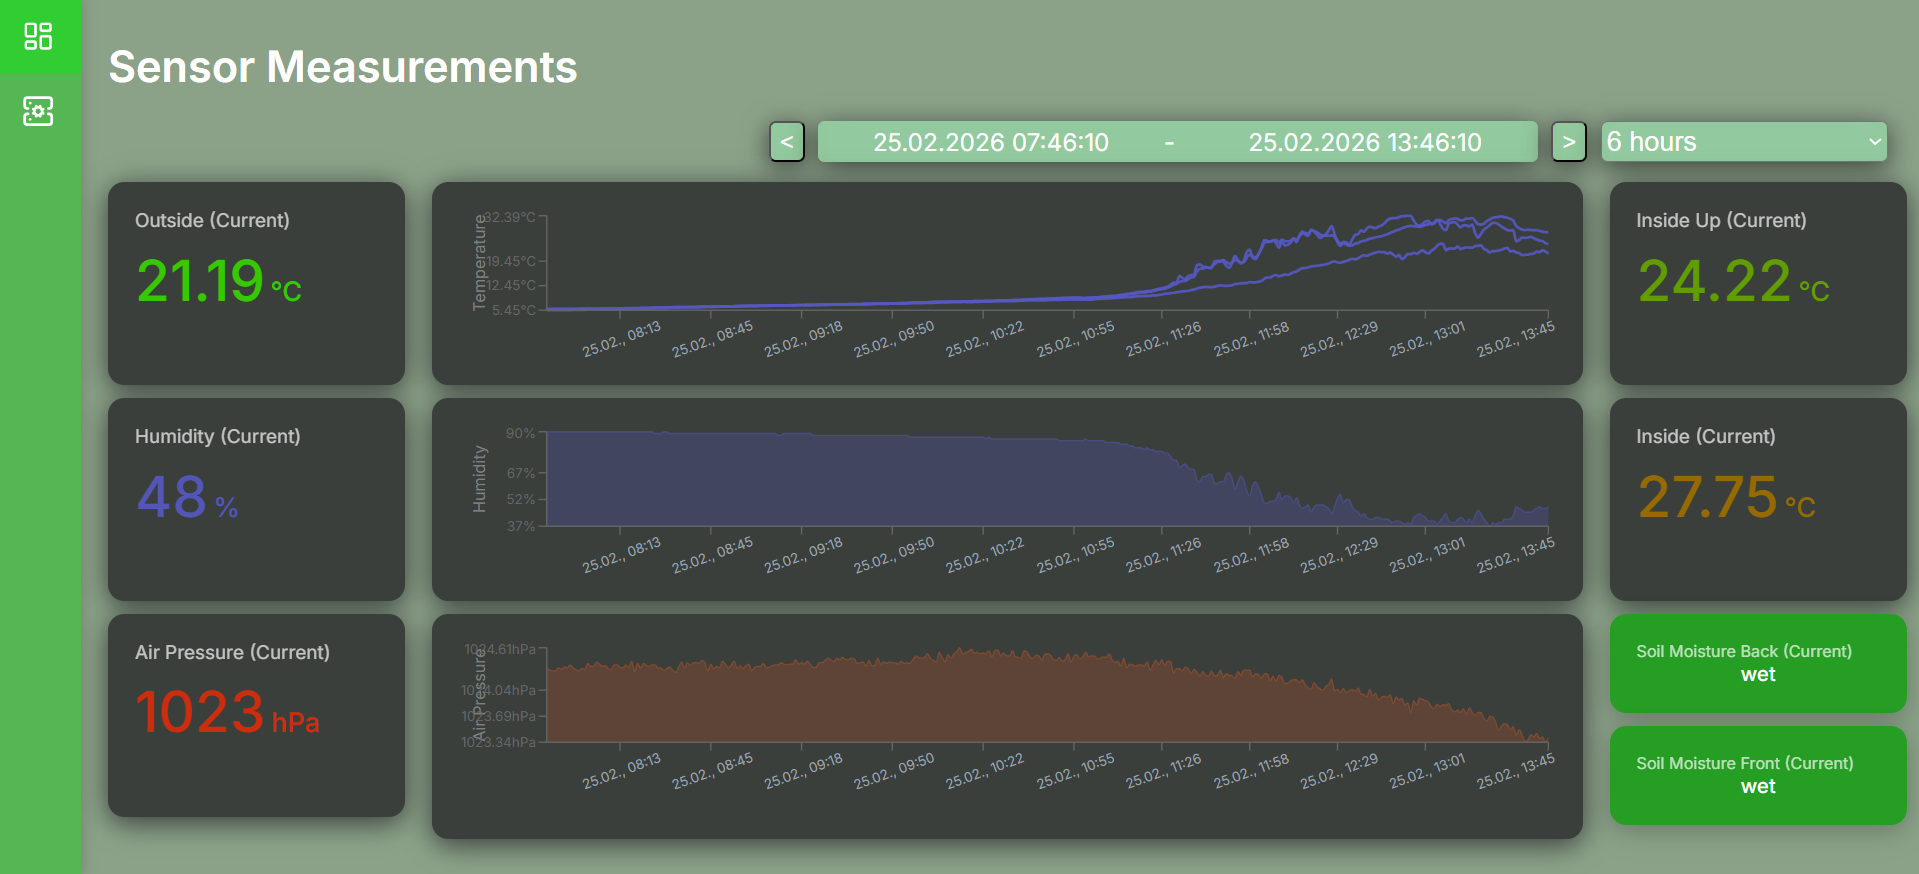
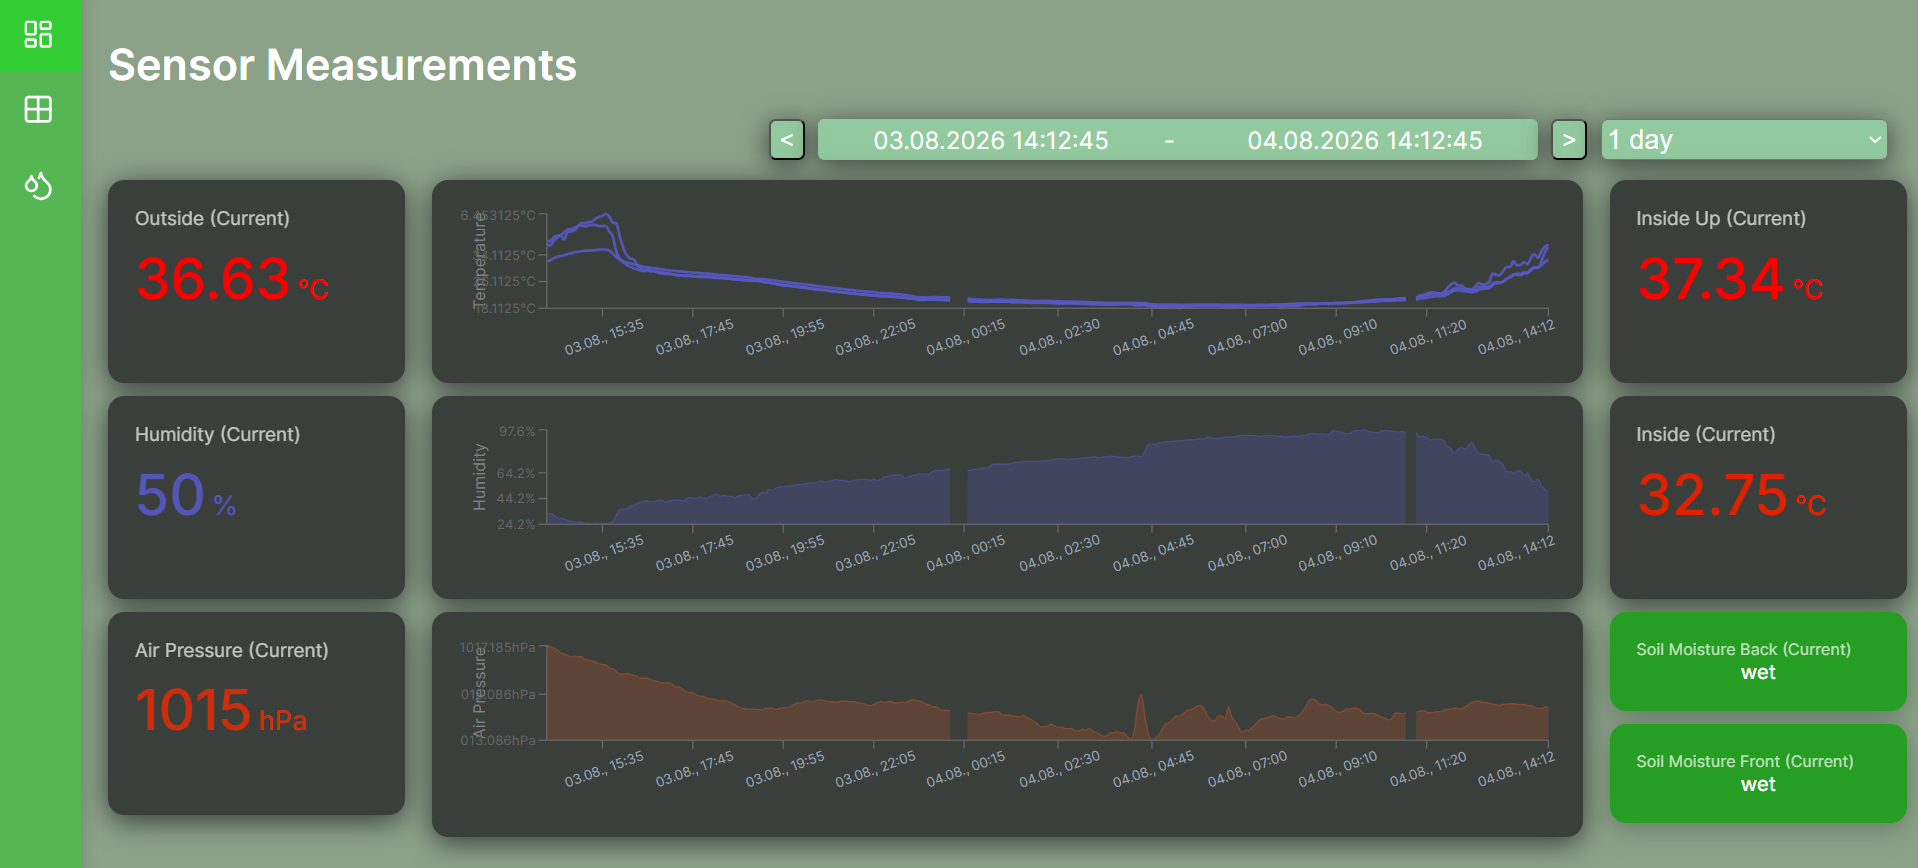
patch: Readme Updates for Watering System (#69)
* Readme Updates for Watering System

* Finished including watering system in readme

diff --git a/README.md b/README.md
@@ -1,23 +1,25 @@
 # 🧠🌱 Raspberry Pi Greenhouse Automations
 
 This project implements a fully automated Raspberry Pi–powered greenhouse control system.
-It collects environmental sensor data (temperature, humidity, pressure, and soil moisture), stores and visualizes telemetry, and automatically controls ventilation using linear actuators — all accessible via a custom web dashboard and API.
+It collects environmental sensor data (temperature, humidity, air pressure, and soil moisture), stores and visualizes telemetry, automatically controls ventilation using linear actuators and irrigation with peristaltic pump — all accessible via a custom web dashboard and API.
 
 All sensor readings are periodically collected, logged, displayed inside a little self-made box for the raspi as well as stored inside an InfluxDB cloud instance. This allows both real time and historical data analysis on the measurements inside the frontend:
 
-### Monitoring Dashboard
-![Frontend dashboard (this one from winter time...)](images/frontend_dashboard.png?raw=true "Sensor Monitoring")
+### Monitoring Dashboards
+![Frontend dashboard](images/frontend_dashboard.png?raw=true "Sensor Monitoring")
 
 ![InfluxDB dashboard](images/influxdb_dashboard.png?raw=true "Influx Monitoring")
 
-The window events (opening/closing) are monitor- and controllable in the "Control Center" section in the frontend. I'm also collecting the timestamps of the window calls to reproduce the last openings times. The window calls are done either manually via the dashboard or the program operator service which is responsible for automatically open/close events based on pre defined thresholds for the inside temperature.
+### Control Centers
+The window events (opening/closing) are monitor- and controllable in the "Window Control Center" section in the frontend. I'm also collecting the timestamps of the window calls to reproduce the last openings times. The window calls are done either manually via the dashboard or the program operator service which is responsible for automatically open/close events based on pre defined thresholds for the inside temperature.
+![Window Control Center dashboard](images/frontend_window_control_center.png?raw=true "Window Control Center")
 
-### Control Center
-![Control Center dashboard](images/frontend_control_center.png?raw=true "Control Center")
+Similar to the Window Control Center, the Watering Control Center provides an overview about the active peristaltic pump times that controls an automated irrigation system in the greenhouse. Calling this endpoint from the frontend as well as more insights about historic watering/window events is in progress.
+![Watering Control Center dashboard](images/frontend_watering_control_center.png?raw=true "Watering Control Center")
 
-In addition, a fastapi instance is implemented to fetch the sensor readings in a specific timeframe from the InfluxDB as well as opening and closing of the windows.
 
 ### API Interface
+In addition, a fastapi instance is implemented to fetch the sensor readings in a specific timeframe from the InfluxDB, opening and closing of the windows and starting watering processes.
 ![fastapi interface](images/api.png?raw=true "API")
 
 The idea is to build a fully automated system to minimize manual work by automation of ventilation and watering in the greenhouse as well as implementing a full-on web application from scratch to monitor and control every sensor remotely.
@@ -64,6 +66,8 @@ INFLUXDB_TOKEN=<YOUR_TOKEN>
 
 SQLITE_DB_NAME=<LOCAL_SQLITE_DB_PATH>
 SQLITE_ACTUATOR_EVENTS_TABLE=window_status
+SQLITE_WATERING_EVENTS_TABLE=watering
+SQLITE_WINDOW_ENTITY_TABLE=window
 
 WINDOW_ACTUATOR_LEFT_EXTEND_PIN=<GPIO_PIN_LEFT_EXTEND>
 WINDOW_ACTUATOR_LEFT_RETRACT_PIN=<GPIO_PIN_LEFT_RETRACT>
@@ -71,30 +75,34 @@ WINDOW_ACTUATOR_RIGHT_EXTEND_PIN=<GPIO_PIN_RIGHT_EXTEND>
 WINDOW_ACTUATOR_RIGHT_RETRACT_PIN=<GPIO_PIN_RIGHT_RETRACT>
 WINDOW_MOVING_TIME=<HOW_LONG_ACTUATOR_TAKES>
 
+WATERING_PUMP_PIN=<GPIO_PIN_PUMP>
+WATERING_TIME_SECONDS=<WATERING_DURATION>
+
 CPU_TEMP_PATH=/sys/class/thermal/thermal_zone0/temp
 
 FRONTEND_URL=<YOUR_LOCAL_FRONTEND_URL>
 VITE_API_BASE_URL=<BASE_API_FOR_FRONTEND>
 ```
 
+Additional environment variables are in the settings of each service, I'm using the default values of those that are not listed here.
+
 The docker-compose will load these environment variables while building the image. To start it, navigate to the repo root and run ```docker compose up -d --build```. Docker will create 6 images and start their corresponding containers:
 
-- ```gewaechshaus-program-operator```: The cron worker that fetches the temperature from inside the greenhouse in a given interval (15 minutes) and operates on windows if certain thresholds are crossed. Source code in ```src/services/program_operator```.
-- ```gewaechshaus-api```: The uvicorn fastapi instance with endpoints to fetch data and call windows. Source code in ```src/services/api```.
+- ```gewaechshaus-program-operator```: The cron worker that fetches the temperature from inside the greenhouse in a given interval (15 minutes) and operates on windows if certain thresholds are crossed. Another cron job is responsible to call watering every morning and evening to keep soil moist. Source code in ```src/services/program_operator```.
+- ```gewaechshaus-api```: The uvicorn fastapi instance with endpoints to fetch data and call windows/irrigation. Source code in ```src/services/api```.
 - ```gewaechshaus-sensor-reader```: The sensor reader to read GPIO singals from sensors, writes measurement into InfluxDB and displays values on lcd display. Source code in ```src/services/sensor_reader```.
 - ```gewaechshaus-frontend```: React frontend for web dashboard. Source code in ```frontend/gewaechshaus```.
-- ```netdata```: To monitor pi resources, such as memory & cpu load, disk I/O, network and container resources.
 - ```sqlite-web```: UI for lightweight SQLite database on the pi.
 
 ## 📸 Pictures & Greenhouse Information
 
-The greenhouse is made of wood and isolated with standard greenhouse foil to trap heat inside. It's 70cm x 90cm x ca. 160cm, while the bottom is directly connected to the surrounding soil and a second level is addable. This level serves also as an option either to add more plant pots...
+The greenhouse is made of wood and isolated with standard greenhouse foil to trap heat inside. 
 
 <p align="center">
     <img src="images/inside_greenhouse.jpg" alt="Inside the greenhouse" width="300"/>
 </p>
 
-...or to develop directly at a desktop inside the greenhouse! (ssh access is activated now so not required but still cool)
+It's 70cm x 90cm x ca. 160cm, while the bottom is directly connected to the surrounding soil and a second level is addable. This level serves also as an option either to add more plant pots or to develop directly at a desktop inside the greenhouse! (ssh access is activated now so not required but still cool)
 
 <p align="center">
     <img src="images/desktop_greenhouse.jpg" alt="Desktop in greenhouse" width="300"/>
@@ -121,6 +129,21 @@ The windows are opened and closed by 12V linear actuators which are connected wi
 <p align="center">
     <img src="images/actuator_wiring.jpg" alt="Actuators connected to raspi house" width="300"/>
 </p>
+
+The peristaltic pump is attached in the box at the front left corner of the bottom box and is also controlled by a 12V relay circuit. When running, it pumps water from a rain barrel outside the greenhouse into a irrigation ring to distribute the water in the soil evenly.
+
+<p align="center">
+    <img src="images/irrigation_system_pump.jpg" alt="Watering System with Pump" width="300"/>
+</p>
+
+<p align="center">
+    <img src="images/irrigation_system_soil.jpg" alt="Irrigation Ring" width="300"/>
+</p>
+
+<p align="center">
+    <img src="images/rain_barrel.jpg" alt="Rain Barrel as water tank" width="300"/>
+</p>
+
 ---
 
 ## 🎛 Sensor Setup & GPIO wiring
@@ -150,7 +173,7 @@ The windows are opened and closed by 12V linear actuators which are connected wi
     - GND -> GND
     - DATA SM1 -> GPIO 23 (Physical 16)
     - DATA SM2 -> GPIO 24 (Physical 18)
-- ⚙ **2× Linear Actuators for Wiring** (+ 2 Double-Pole 5V Relays)
+- ⚙ **2× Linear Actuators for Windows** (+ 2 Double-Pole 5V Relays)
     - Actuator - -> COM2
     - Actuator + -> COM1
     - 12V DC - -> NC1 and NC2
@@ -161,6 +184,12 @@ The windows are opened and closed by 12V linear actuators which are connected wi
     - Actuator Right Retract Pin (GPIO 20) -> Relays (R) IN2
     - Actuator Left Extend Pin (GPIO 5) -> Relays (L) IN1
     - Actuator Left Retract Pin (GPIO 6) -> Relays (L) IN2
+- 💧 **Linear Actuator for Peristaltic Pump**
+    - Watering Pin (GPIO 21) -> Relay IN
+    - 5V VCC -> Relays VCC
+    - Pi GND -> Relays GND
+    - 12V DC - -> NC and NO
+    - 12V GND -> COM
 
 
 ---
@@ -171,7 +200,7 @@ The pi runs on ubuntu 25.10 lts (desktop version) and Python 3.13. Other ubuntu 
 
 The repository contains poetry for dependency management and docker/docker-compose to run the application inside a container on the pi. The models and settings are wrapped by pydantic models and the environment variables are set either inside the docker files or (for sensitive informations like the influxdb connection details) inside an .env file. For local development, I use vscode and a virtual environment managed with poetry.
 
-The data pipeline starts at the sensors, whereas the sensor_reader container is responsible for reading the data from the hardware, writing them into the InfluxDB and displaying the values frequently on the display inside the greenhouse. In addition, a lightweight SQLite DB is running on the pi to log the opening/closing events of the windows. The API is then structured to query the databases and provides endpoints to call on the windows or fetch data series, while big requests (>1 day, minute interval) are aggregated to ensure smooth and fast returns. The API is called from the frontend or by the program operator, which runs an asynchronous worker every 15 minutes to fetch the latest temperature inside datapoints and act on the window endpoints if required (thresholds defined as environment variables).
+The data pipeline starts at the sensors, whereas the sensor_reader container is responsible for reading the data from the hardware, writing them into the InfluxDB and displaying the values frequently on the display inside the greenhouse. In addition, a lightweight SQLite DB is running on the pi to log the opening/closing events of the windows. The API is then structured to query the databases and provides endpoints to call on the windows or fetch data series, while big requests (>1 day, minute interval) are aggregated to ensure smooth and fast returns. The API is called from the frontend or by the program operator, which runs an asynchronous worker every 15 minutes to fetch the latest temperature inside datapoints and act on the window endpoints if required (thresholds defined as environment variables) or to run a watering session at scheduled times (morning and evening, also controllable via environment variables).
 
 <p align="center">
     <img src="images/service_interactions.png" alt="Service architecture and data flow" width="300"/>
@@ -182,6 +211,7 @@ The data pipeline starts at the sensors, whereas the sensor_reader container is 
 - 🌡 Real-time environmental monitoring
 - 📈 Historical telemetry & dashboards
 - 🪟 Automated window ventilation
+- 💧 Controlled irrigation system
 - 🌱 Soil moisture monitoring
 - 🌐 Remote control via web dashboard
 - 🔒 Secure remote access via Tailscale VPN
